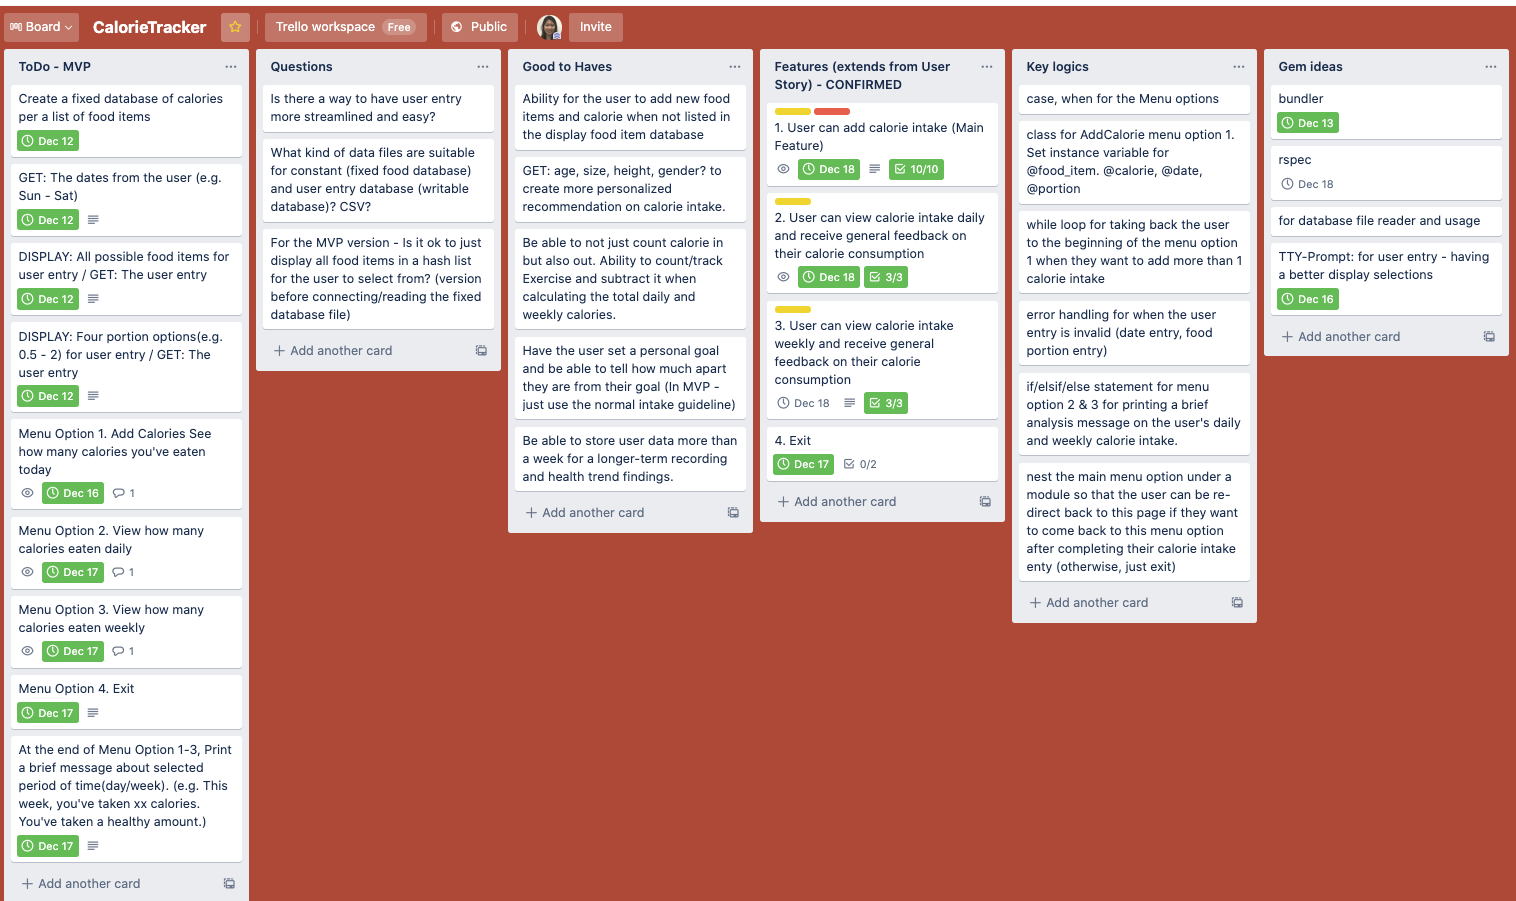
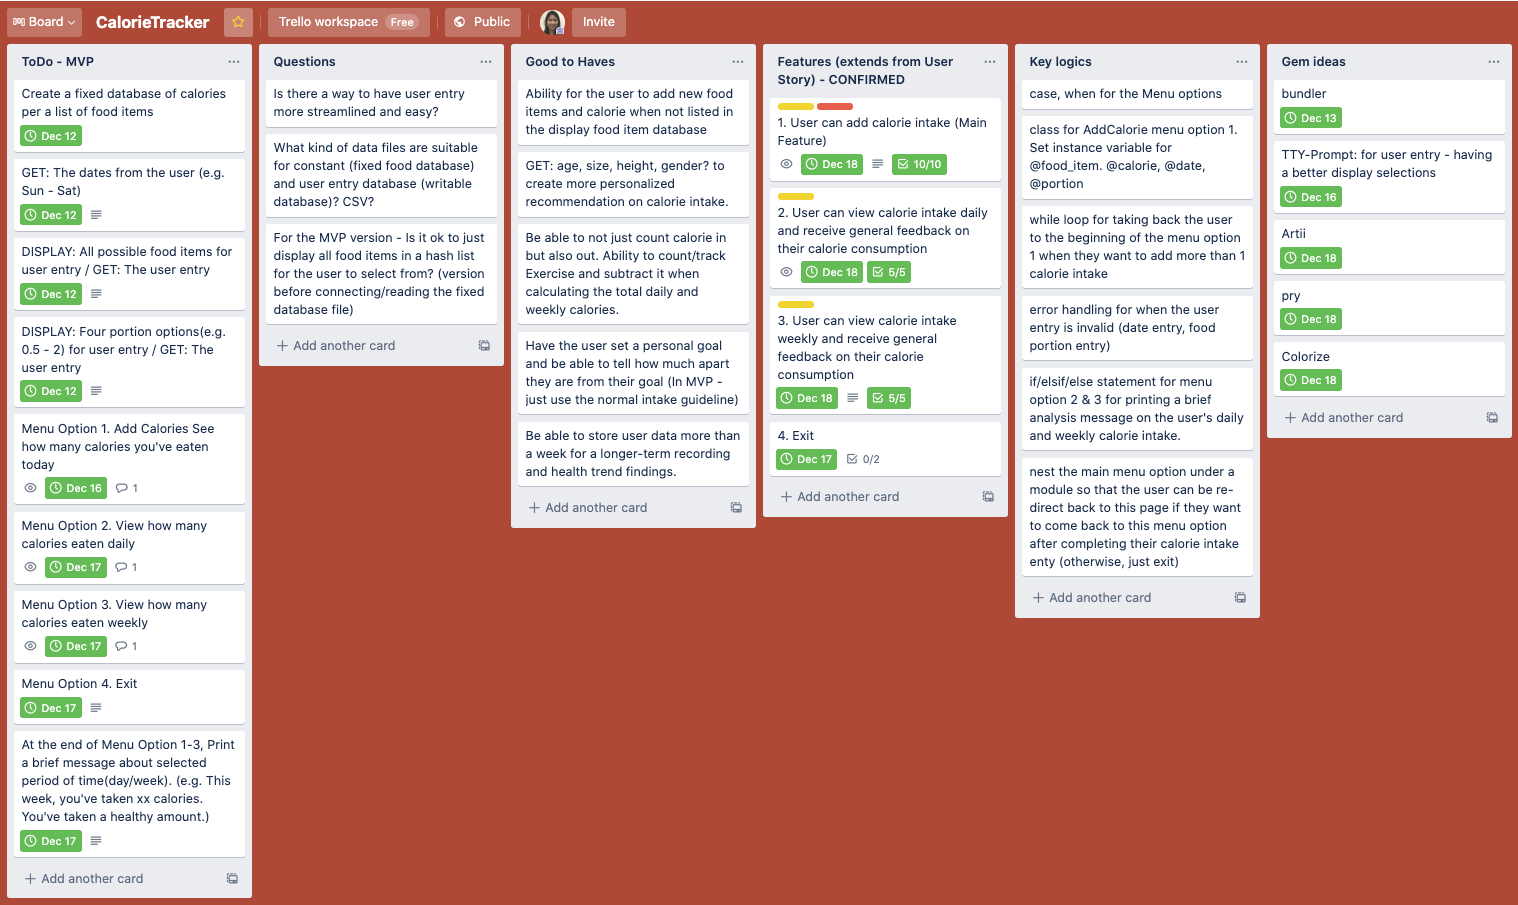
made minor changes

Changed region(s): [[0.0, 0.0, 1.0, 1.0]]

diff --git a/README.md b/README.md
@@ -2,38 +2,42 @@
 ## R1. Answers to all the documentation requirements below.	
 > Completed
 
+<br />
+
 ## R2. Created a separate heading for each documentation requirement and organized answers accordingly.	
 > Completed 
 
+<br />
+
 ## R3. Referenced sources
 ### Using CSV files
-https://ruby-doc.org/stdlib-2.6.3/libdoc/csv/rdoc/CSV/Row.html
-https://ruby-doc.org/stdlib-2.6.1/libdoc/csv/rdoc/CSV.html
-https://docs.ruby-lang.org/en/2.0.0/CSV.html
-https://stackoverflow.com/questions/12407035/ruby-csv-get-current-line-row-number/12408934
+https://ruby-doc.org/stdlib-2.6.3/libdoc/csv/rdoc/CSV/Row.html <br />
+https://ruby-doc.org/stdlib-2.6.1/libdoc/csv/rdoc/CSV.html <br />
+https://docs.ruby-lang.org/en/2.0.0/CSV.html <br />
+https://stackoverflow.com/questions/12407035/ruby-csv-get-current-line-row-number/12408934 <br />
 https://www.sitepoint.com/guide-ruby-csv-library-part/
 
 <br />
 
 ## R4. Source control repository link
-https://github.com/SooyeonJeung/Calorie_Counter_App
+**GitHub Repository**: [link here](https://github.com/SooyeonJeung/Calorie_Counter_App)
 
 <br />
 
 ## R5. Statement of Purpose & Scope
-### The Application
+### The Application:
 The calorie counter app counts and tracks calories consumed and produce daily and weekly view of the user's progress over a selected period. The app offers easy usage and accurate tracking to the users without any prior major system setup. This app runs from the terminal.
 
-### The Problem
+### The Problem:
 For anyone interested in weight management, it is emotionally stressful to monitor and track personal calorie intake at all times. On top of this, it' tedious and error-prone to manually store and calculate the data. Finally, the data fail to produce something meaningful for the user to clearly understand their progress over time.
 
-### The Solution
+### The Solution:
 The calorie counter app solves this problem. The app is easy to use and navigate by any users. Once the users enter their calorie intakes, they gain full visibility of their calorie tracking and progress over the selected period. The app helps the users' weight management journey and gives them confidence in building the wellness routine.
 
-### The Audience
+### The Audience:
 Target Audience: Anyone interested to easily view and track the calories consumed is the target audience.
 
-### The Usage
+### The Usage:
 To start with, the user is given four(4) main menu, which are:
   1) Add new calorie intake: A user inputs dates, food items, and portions consumed. The user data gets stored and can be displayed when the user wants to view a daily or weekly view.
   2) View daily calorie intake: The user selects to view the total calorie consumption over a day. The app prints a dietary summary and a guideline to help the user understand their consumption. 
@@ -45,30 +49,34 @@ For menu options 1-3, the user data can also be downloaded as it gets updated ev
 <br />
 
 ## R6. List of features
-### **1.Add Calorie Intake**
+### **1. Add Calorie Intake**
 A user wants to inputs dates, food items, and portions consumed. The user data gets stored, and the user can add another calorie intake. 
+- class AddCalorie
+  - initialize objects, create instance variables, added attr_accessor/reader
+  - Interacting objects across methods
+- case, when for the main menu options
+  - while loop to re-run ‘menu 1’ when needed
+  - active use of instance variables across the code
+  - boolean (re-direct, print calorie analysis)
+  - iterators for hash and array
 
-### **2. View daily calorie intake and get a daily summary **
+### **2. View daily calorie intake and get a daily summary**
 A user wants to view the total calorie consumption over a selected day. The app prints a dietary summary and a guideline to help the user understand their total calorie intake per day.   
 
-### **3.View weekly calorie intake and get a weekly summary**
+### **3. View weekly calorie intake and get a weekly summary**
 A user wants to view the total calorie consumption over a week. The app prints a dietary summary of the week, and average calorie per meal. Finally, it prints guideline to help the user understand their overall consumption.    
 
-
-Note: Ensure that your features above allow you to demonstrate your understanding of the following language elements and concepts:
-- use of variables and the concept of variable scope
-- loops and conditional control structures
-- error handling
+****Details of each features and logics are explained in R.9:Implementation plan section.***
 
 <br />
 
 ## R7. User Experience Details
-### Clear Menu Navigation 
+### **Clear Menu Navigation:** 
 The app provides clear instructions on what are the correct format and options available for them to enter. For every calorie intake, a user is asked to provide three inputs: date, food item, and portion. The user will be prompt with the options displayed in color green. The data will be re-printed after the user entry to confirm the data received. 
 
 ***(Used tools: TTY-Prmopt(ruby gem), Boolean)***
 
-### Error Handling
+### **Error Handling:**
 The app has error handling functions, which includes error messages to the user. For example, when the user is unable to provide the correct entry, the system will prompt them to re-enter valid data. 
 
 In this application, below measures has been taken to anticipate the errors and minimize the user impact. 
@@ -82,7 +90,7 @@ In this application, below measures has been taken to anticipate the errors and 
 
 ***(Used tools: TTY-Prompt, Boolean, Pry)***
 
-### Visual Effects
+### **Visual Effects:**
 The app starts with a welcome sign with the two gems installed through bundler, Artii and Colorize. Distinction lines are displayed (...) to seperate the contents and make it easier for the user to read through. For all selections, color green is used. For all confirmation/data print, light blue is used. Finally color cyran is used for printing health recommendation to the users.  
 
 ***(Used tools: TTY-Prompt, Artii, Colorize)***
@@ -90,32 +98,104 @@ The app starts with a welcome sign with the two gems installed through bundler, 
 <br />
 
 ## R8. Control Flow Diagram
+After scribbling notes and sketches on my initial app idea, the first step of conceptualizing my idea was through a flow chart. 
+
+From the start, I draw my flow chart with heavy details. I thought through the logic structures and sequence of each step, and therefore, not much changes was needed while implementation.
+
 ![Flow Chart](docs/CalorieTracker.png)
 
 <br />
 
 ## R9. Implementation Plan 
-**GitHub Repository**: [link here](https://github.com/SooyeonJeung/portfolio/tree/version-a)
+From flow chart to implementation, I actively used trello board to layout my implementation plan and track the progress diligently. I used github to store the codes and to create a new branch for features specific coding and testing. 
 
-**Trello Board**: [link here](https://trello.com/b/52cXJdyU/calorietracker)
+### Trello Checklists/Timeline ([link here](https://trello.com/b/52cXJdyU/calorietracker))
+I structured my trello board into 6 lists. The Todo MVP and Features lists have descriptions, deadline, lable, and checklists for each items. My trello board is publicly available, so the readers can check my board. Below is a brief written summary for README. 
+
+- Todo MVP (highest priority, urgent) -> The app should be able to work at MVP version.
+- Questions (medimum priority, continous)
+- Good to Haves (low priority, long-term) -> ideas for later advanced features
+- Features (highest priority, time-consuming and invest into fixing the bug/making the details work)
+- Key logics (high priority, iterations may needed while coding)
+- Gem installations (medimum-to-low priority, get the essentially needed gems first and then install other gems to improve the code/user experience)
+
 ![Trello Board](docs/trello_board.png)
+
+- **Main Menu:**
+
+  - **Class:** to call the instance variables continously
+    - Define class AddCalorie
+    - Initialize objects
+    - create instance variables
+      - @date = ''
+      - @food_item = ''
+      - @portion = 0.0
+      - @calorie = 0
+      - @prompt = TTY::Prompt.new
+      - @food_calorie_table = CSV.read("food_calorie_file.csv", headers: true, header_converters: :symbol)
+    - added attr_accessor/reader  
+      - attr_accessor :date, :food_item, :portion
+      - attr_reader :calorie
+
+  - **Method:** to break the codes into methods for code readability and usability for additional features
+    - Art: for Artii gem usage
+    - welcome: print welcome message
+    - initialize: class/main
+    - user_select: user input controller
+    - find_food_item: reading/printing the food items fron constant csv file
+    - handle_input: main method for handling different menu options
+
+
+- **Feature 1 (Add Calorie Intake):**
+  - **Loop**: while loop for taking back the user to the beginning of the menu option 1 when they want to add more than 1 calorie intake 
+  - **CSV File - Read**: Create a fixed CSV file `food_calorie_file.csv` which contains two header items `(:food_item, :calories)`. The `index.rb` will read the data in this CSV file to do the following next steps
+    - match the user entry food item to `:food_item`
+    - read the respective `:calorie` which pairs with the user input  `:food_item`
+    - receive the information from the step 1 & 2 and passes the value in creating a new data set called `user_data.csv` which has the pair value of `:date` and `:total_calories`
+  - **CSV File - Write/Append**: Create a fixed CSV file `user_data.csv` which contains two header items `(:date, :total_calories)`. The user input gathered from `index.rb` will be stored in this data base
+    - bring the `:date` value from the user at the first step of this menu
+    - calculate the `:total_calories` by multiplying `:calorie` (which from using the index of user selected `:food_item`) with `:portion`
+    - run a test and make sure the data gets stored correctly and accurately
+
+- **Feature 2 (View daily calorie intake and get a daily summary):**
+    - **CSV File - Read**:
+      - read the data from `user_data.csv` and extract `:date` and `:total_calories`
+      - read only the specific date that the user wants to see `require "csv"` 
+      - print the message `You have entry #{index #} which is #{@total_calories} total calories on #{@date}`  - use instance variables
+      - Use `when` logic to print a general advice (e.g. You've taken xx calories which is below/similar to/over the guideline.)
+      - before exiting, ask if the user wants to add any new food intake. If yes, direct the user to the steps of feature 1 (menu option1) - (while loop, if/elsif/else) 
+
+- **Feature 3 (View daily calorie intake and get a weekly summary):**
+  - **CSV File - Read**: 
+    - read the data from `user_data.csv` and extract `:date` and `:total_calories`
+    - print all data into below format
+    - print the message `You have entry #{index #} which is #{@total_calories} total calories on #{@date}` - use instance variables
+    - Use `when` logic to print a general advice (e.g. You've taken xx calories which is below/similar to/over the guideline.) - create new array to create a mathmetical formula.
+    - before exiting, ask if the user wants to add any new food intake. If yes, direct the user to the steps of feature 1 (menu option1) - (while loop, if/elsif/else) 
+
+- **Error Handling: Refer to the details in R7**
+- **Gems:**
+  - Bundler
+  - Pry
+  - TTY-Prompt 
+  - Artii
+  - Colorize
+
 ![Feature 1](docs/feature1.png)
 ![Feature 2](docs/feature2.png)
 ![Feature 3](docs/feature3.png)
 
 ## R10. How to install and use 
+Ensure that your server has the ruby installed. Refer to [this document](https://www.ruby-lang.org/en/downloads/) for ruby installation. Next is to install gem bundler. Use the commeand `$ gem install bundler` and `$ bundle install`. The bundler gem will auto-download all other gems installed to use this application. In your commend line, input `$ ruby index.rb ` to run the CLI application.
 
-### To install and run
-- `$ gem install bundler`
-- `$ bundle install`
-- `$ ruby index.rb `
+The user will be welcomed with a intro message indicating the four menu options. The user can select the menu opption that they wish to navigate. For each menu options, the prompt will be displayed with available selections so that the user can enter valid input with no doubt. 
 
-### Dependencies
+Error handling is covered in this application by anticipating the potential errors and implementing error handdling tools as mentioned in detail in R7.
+
+### **Dependencies**
 - Ruby
 - rbenv
 - Gem install
-
-### System/Hardware requirements
 
 ## R11-R12 Presentation attached
 > Completed
